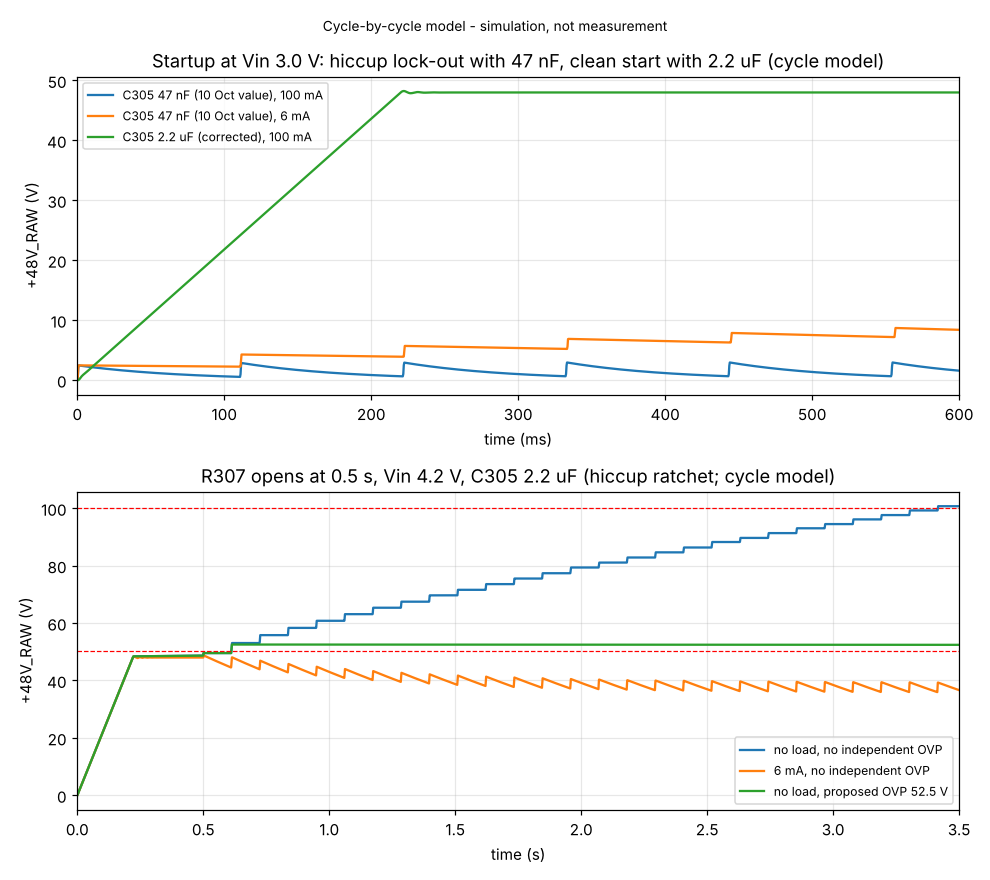
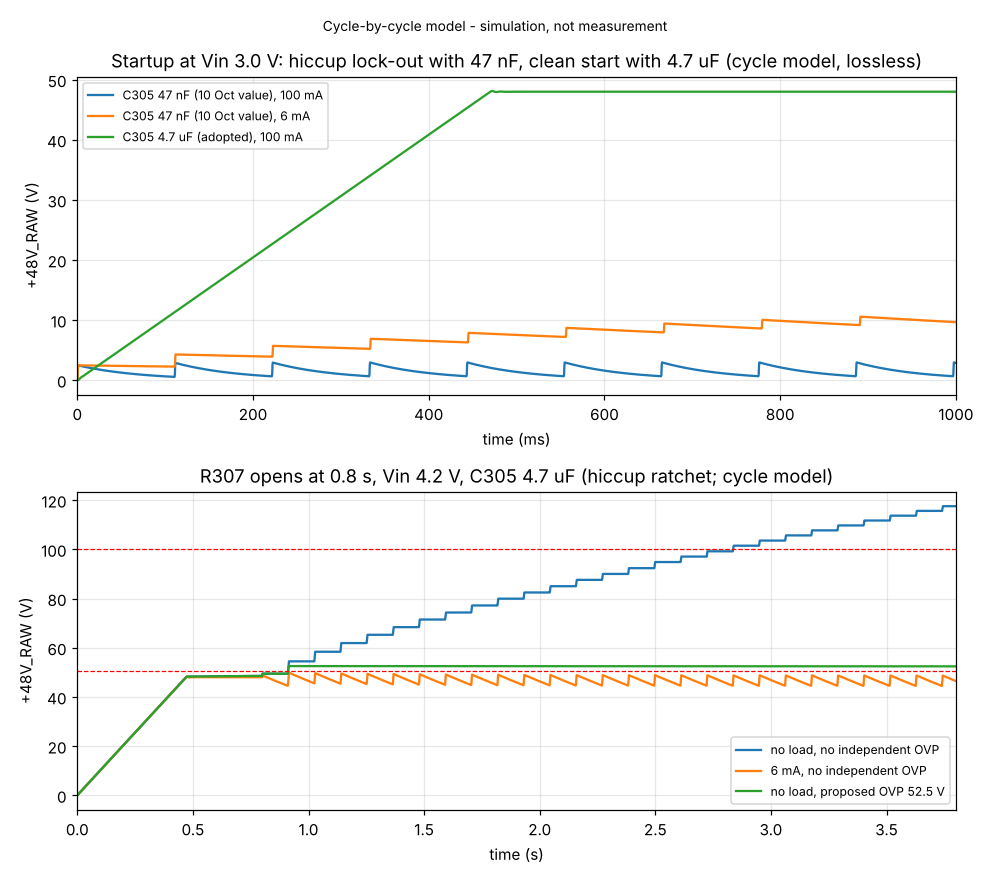
Archive CI run 7; U101 library/PCB fab outline aligned; CI export dry run; docs: CS filter decision 19, Q301 spec
- validation/erc, validation/drc, docs/bom*.csv from kicad-cli 10.0.4 CI run 7 (ea7aea9): 0 copper, 0 parity,
  19 unconnected; one lib_footprint_mismatch (U101 fab outline) fixed here by regenerating the library file
  from gen_library.py and aligning the placed footprint.
- scripts/archive_ci_log.py: reproducible extraction of the CI reports.
- CI: Gerber/drill export DRY RUN with inspection (scripts/inspect_fab_outputs.py), NOT FOR FABRICATION.
- Approval sheet: decision 16 closed (YBG drawing found), 18 done (C305 4.7 uF), new 19 (CS RC filter),
  Q301 replacement requirement table and missing-evidence statement; issue register U-12 closed, U-45 new.
- audit_calcs.py: C305 4.7 uF, CS filter constraints, VBAT_FUSED track (IPC-2221 equation).

diff --git a/scripts/audit_calcs.py b/scripts/audit_calcs.py
@@ -48,10 +48,24 @@ row("Current limit max", 0.107 / 0.022, "A", "107 mV / 22 mohm", "SNVSB75E VCLTH
 row("Soft-start time, 10 Oct C305 47 nF", 47e-9 * 1.0 / 10e-6 * 1e3, "ms", "C VREF / ISS (ISS typ 10 uA)", "SNVSB75E")
 c_out = 1.8e-6 * 2 + 47e-6 + 100e-6
 row("  charge current that 4.7 ms demands", c_out * 48 / 4.7e-3, "A", "C_out x 48 V / tSS", "-> current limit + hiccup")
-row("Soft-start time, C305 2.2 uF (1 Nov)", 2.2e-6 * 1.0 / 10e-6 * 1e3, "ms", "", "SNVSB75E")
-row("  range (ISS 11..9 uA, VREF 0.99..1.01)", 2.2e-6 * 0.99 / 11e-6 * 1e3, "ms (min)", "", "")
-row("  ...max", 2.2e-6 * 1.01 / 9e-6 * 1e3, "ms", "", "")
-row("  charge current at 2.2 uF", c_out * 48 / 0.22, "A", "", "sim_flyback_cycle.py: min 1.5 uF")
+row("Soft-start time, C305 2.2 uF (1 Nov, superseded)", 2.2e-6 * 1.0 / 10e-6 * 1e3, "ms", "", "SNVSB75E")
+row("  charge current at 2.2 uF", c_out * 48 / 0.22, "A", "", "")
+row("Soft-start time, C305 4.7 uF (adopted)", 4.7e-6 * 1.0 / 10e-6 * 1e3, "ms", "", "SNVSB75E")
+row("  range incl. C +-20 %, ISS 9..11 uA, VREF 0.99..1.01", 4.7e-6 * 0.8 * 0.99 / 11e-6 * 1e3, "ms (min)", "", "")
+row("  ...max", 4.7e-6 * 1.2 * 1.01 / 9e-6 * 1e3, "ms", "", "")
+row("  charge current at 4.7 uF", c_out * 48 / 0.47, "A", "", "")
+row("  worst-case equivalent C (C -20 %, ISS +10 %)", 4.7 * 0.8 / 1.1, "uF", "", "sim ssend_*_css3u4_vclth93_csf")
+row("  SS discharge 5 tau through 55 ohm switch", 5 * 55 * 4.7e-6 * 1e3, "ms", "", "SNVSB75E SS pull-down 55 ohm")
+row("CS RC filter 100 ohm / 470 pF: tau", 100 * 470e-12 * 1e9, "ns", "", "SNVSB75E 9.3.7")
+row("  3 RF CF vs (1-D)/fsw at 3.0 V", 3 * 100 * 470e-12 / ((1 - d3) / 298e3), "-", "must be < 1", "Eq. 13")
+row("  2 RF CF (current limit invalid below this on-time)", 2 * 100 * 470e-12 * 1e9, "ns", "", "vs tON(min) 140 ns")
+# VBAT_FUSED charge track (layout_fixes_4.py): IPC-2221 external-layer equation I = 0.048 dT^0.44 A^0.725 (A in mil^2)
+a_mil2 = (0.2 / 0.0254) * 1.378
+row("VBAT_FUSED 0.2 mm x 35 um cross-section", a_mil2, "mil^2", "", "1 oz assumed")
+row("  current for 10 C rise", 0.048 * 10 ** 0.44 * a_mil2 ** 0.725, "A", "IPC-2221 equation", "standard not in repo")
+row("  rise at 0.5 A", (0.5 / (0.048 * a_mil2 ** 0.725)) ** (1 / 0.44), "C", "", "")
+row("  rise at 1.0 A", (1.0 / (0.048 * a_mil2 ** 0.725)) ** (1 / 0.44), "C", "", "")
+row("  resistance (8.9 mm)", 1.72e-8 * 8.9e-3 / (35e-6 * 0.2e-3) * 1e3, "mohm", "", "")
 ratio_nom = 1 + 470 / 10
 ratio_lo = 1 + 470 * 0.99 / (10 * 1.01)
 ratio_hi = 1 + 470 * 1.01 / (10 * 0.99)

diff --git a/scripts/inspect_fab_outputs.py b/scripts/inspect_fab_outputs.py
@@ -1,0 +1,54 @@
+"""Inspect Gerber X2 / Excellon files produced by kicad-cli (used by the CI export dry run).
+Prints, per file: file function, coordinate format, number of apertures, number of draw/flash operations and
+the X/Y extents; for drill files the tool table and hits per tool. Usage: python3 inspect_fab_outputs.py <dir>
+"""
+import os
+import re
+import sys
+
+
+def gerber(path):
+    t = open(path, encoding="utf8", errors="replace").read()
+    fn = re.search(r"%TF\.FileFunction,([^*]*)\*%", t)
+    fs = re.search(r"%FSLAX(\d)(\d)Y(\d)(\d)\*%", t)
+    unit = "mm" if "%MOMM*%" in t else ("inch" if "%MOIN*%" in t else "?")
+    dec = int(fs.group(2)) if fs else 6
+    xs, ys = [], []
+    for m in re.finditer(r"X(-?\d+)Y(-?\d+)D0?([123])\*", t):
+        xs.append(int(m.group(1)) / 10 ** dec)
+        ys.append(int(m.group(2)) / 10 ** dec)
+    ap = len(re.findall(r"%ADD\d+", t))
+    ops = len(re.findall(r"D0?[123]\*", t))
+    ext = f"X {min(xs):.2f}..{max(xs):.2f}  Y {min(ys):.2f}..{max(ys):.2f} {unit}" if xs else "no coordinates"
+    return f"{fn.group(1) if fn else '?':38s} apertures {ap:4d}  ops {ops:6d}  {ext}"
+
+
+def drill(path):
+    t = open(path, encoding="utf8", errors="replace").read()
+    tools = dict(re.findall(r"^T(\d+)C([\d.]+)", t, re.M))
+    hits, cur = {}, None
+    for line in t.splitlines():
+        m = re.match(r"^T(\d+)$", line)
+        if m:
+            cur = m.group(1)
+        elif cur and re.match(r"^X-?[\d.]+Y-?[\d.]+", line):
+            hits[cur] = hits.get(cur, 0) + 1
+    unit = "mm" if "METRIC" in t else "inch"
+    return "tools: " + ", ".join(f"T{k} {v} {unit} x{hits.get(k, 0)}" for k, v in tools.items()) + \
+           f"  total hits {sum(hits.values())}"
+
+
+def main(d):
+    for f in sorted(os.listdir(d)):
+        p = os.path.join(d, f)
+        size = os.path.getsize(p)
+        if f.endswith((".drl",)):
+            print(f"{f:45s} {size:8d} B  {drill(p)}")
+        elif f.endswith((".gbr", ".gtl", ".gbl", ".g1", ".g2", ".gto", ".gbo", ".gts", ".gbs", ".gtp", ".gbp", ".gm1")):
+            print(f"{f:45s} {size:8d} B  {gerber(p)}")
+        else:
+            print(f"{f:45s} {size:8d} B")
+
+
+if __name__ == "__main__":
+    main(sys.argv[1])

diff --git a/scripts/archive_ci_log.py b/scripts/archive_ci_log.py
@@ -1,0 +1,41 @@
+"""Extract the kicad-cli reports and BOMs that .github/workflows/kicad-checks.yml prints between
+=====BEGIN/END ...===== markers from a saved job log, and write them into validation/ and docs/.
+Usage: python3 scripts/archive_ci_log.py <job-log-file>   (prints a summary)
+"""
+import json
+import os
+import re
+import sys
+from collections import Counter
+
+ROOT = os.path.dirname(os.path.dirname(os.path.abspath(__file__)))
+
+
+def main(path):
+    raw = open(path, encoding="utf8").read()
+    try:
+        d = json.loads(raw)
+        txt = d.get("logs_content") or d.get("content") or raw
+    except Exception:
+        txt = raw
+    lines = [re.sub(r"^\S+Z ", "", l) for l in txt.split("\n")]
+
+    def grab(name):
+        a = [i for i, l in enumerate(lines) if l == f"=====BEGIN {name}====="][-1]
+        b = [i for i, l in enumerate(lines) if l == f"=====END {name}====="][-1]
+        return "\n".join(lines[a + 1:b]).strip("\n") + "\n"
+    out = {"validation/erc/pump_v2-erc.rpt": (grab("ERC REPORT"), "\r\n"),
+           "validation/drc/pump_v2-drc.rpt": (grab("DRC REPORT"), "\r\n"),
+           "docs/bom.csv": (grab("BOM"), "\n"), "docs/bom_detailed.csv": (grab("BOM DETAILED"), "\n")}
+    for rel, (t, nl) in out.items():
+        open(os.path.join(ROOT, rel), "w", encoding="utf8", newline="").write(t.replace("\n", nl))
+    erc, drc = out["validation/erc/pump_v2-erc.rpt"][0], out["validation/drc/pump_v2-drc.rpt"][0]
+    print("ERC", dict(Counter(re.findall(r"^\[(\w+)\]", erc, re.M))))
+    print("DRC", dict(Counter(re.findall(r"^\[(\w+)\]", drc, re.M))))
+    print("\n".join(re.findall(r"^\*\* Found.*", drc, re.M)))
+    ver = [l for l in lines if re.fullmatch(r"\d+\.\d+\.\d+", l.strip())]
+    print("kicad-cli version lines:", ver[:2])
+
+
+if __name__ == "__main__":
+    main(sys.argv[1])

diff --git a/docs/handover/OWNER_APPROVAL_SHEET.md b/docs/handover/OWNER_APPROVAL_SHEET.md
@@ -37,11 +37,12 @@ The device is a water/saline bench prototype only. It must never be connected to
 | 12a | SMPS or LDO core supply | **SMPS** (ST's own choice on NUCLEO-WBA55CG) | `RCC.SupplySource=PWR_SMPS_SUPPLY` [REF] | Inductor value from AN6373 |
 | 12b | Antenna | Keep U.FL to an external 2.4 GHz antenna for the bench | No RF data in the repo | Matching network values from AN5948 |
 | 12c | LSE crystal | **Fit** Y502 (32.768 kHz), now DNP | ST reference uses LSE for the RTC and radio sleep timer [REF] | DNP → fitted; load caps from the datasheet |
-| 13 | **Battery subsystem** (U-18) | Molicel P28A protected 1S pack, **5 A slow-blow fuse**, **0.5 A charge current** with T<sub>REG</sub> 80 °C, XT30 confirmed, E-10 adopted | Charger loss 1.0 W at 0.5 A versus 2.0 W at 1 A [CALC]; cell data [WEB-2ND] | Fuse MPN, firmware ICHG setting |
+| 13 | **Battery subsystem** (U-18) | Molicel P28A protected 1S pack, **5 A slow-blow fuse**, **0.5 A charge current** (the VBAT_FUSED charge track routed 1 Nov is 0.2 mm: ≈ 4 °C rise at 0.5 A, ≈ 20 °C at 1 A by the IPC-2221 equation, so I<sub>CHG</sub> ≤ 0.5 A unless the track is widened) with T<sub>REG</sub> 80 °C, XT30 confirmed, E-10 adopted | Charger loss 1.0 W at 0.5 A versus 2.0 W at 1 A [CALC]; cell data [WEB-2ND] | Fuse MPN, firmware ICHG setting |
 | 14 | **Supervisor battery monitoring** (new, A2) | Connect a spare STM32C031 ADC pin to VBAT_SENSE (shared 1 M/1 M divider) so the supervisor can enforce the low-voltage stop independently | At present only the main MCU reads VBAT; the supervisor cannot | 1 net; pin confirmed in CubeMX |
 | 15 | **Fab house and stack-up** (U-16, U-20) | Choose before RF and fine-pitch routing | — | DRC rules and impedance |
-| 16 | **BQ25188 YBG land pattern** (U-12) | Provide TI's YBG package drawing (PDF in the repo lacks it) | — | Unblocks 3 unconnected items |
+| 16 | ~~BQ25188 YBG land pattern~~ **CLOSED 1 Nov** (U-12) | The drawing **is** in the repo PDF (SLUSFJ3 §13.1, vector graphics; read by rendering pp. 50–52). Footprint corrected to it: pads 0.20 → 0.23 mm, NSMD mask +0.05 mm, 0.25 mm square paste; ball map checked against Table 5-1 | [DS] | U101 escapes routed (CHG_INT_N, I2C_SDA, I2C_SCL re-routed, VBAT_FUSED) |
 | 17 | **Remaining PROPOSED requirements** (OPEN item 15) | Accept, change or strike each | — | Requirements frozen |
+| 19 | **CS-pin RC filter on U301** (new, U-45) | Add RF 100 Ω between FLY_CS (R305/Q301 source) and U301 pin 5, and CF 470 pF from pin 5 to GND, as TI recommends against the leading-edge spike (SNVSB75E §9.3.7: RF 10–200 Ω, CF 100 pF–2 nF; 3·RF·CF = 141 ns < (1−D)/f<sub>SW</sub> = 0.77 µs; 2·RF·CF = 94 ns < t<sub>ON(min)</sub> 140 ns) | Without it, the turn-on spike counts as current limit and trips the 64-cycle hiccup on **every** full-load start at V<sub>CLTH</sub> 93 mV, for C305 = 2.2, 3.3 and 4.7 µF. With it: 2.2 µF nominal passes; the tolerance corners 2.4 µF-eq and 3.4 µF-eq pass (5.7 % margin at 3.4 µF-eq); 3.0 V/100 mA steps still need FW-R1 [SIM] | 2 parts (0603), 1 new net, local re-route at U301 pin 5. Connectivity change → approval |
 
 ## E. Closure review (final completion pass, 1 Nov 2026)
 
@@ -63,9 +64,29 @@ Which decisions the available evidence now closes. **None of the safety-critical
 | 12 ST documents | No | ST reference firmware: SMPS, HSE, LSE [REF] | DS14127, AN5948, AN6373, MB1803 |
 | 13 Battery, fuse, charge current | No | Calculations | Cell/fuse datasheets; approval |
 | 14 Supervisor VBAT | Ready to decide | Gap identified | Approval; pin check in CubeMX |
-| 15–17 | No | — | Owner |
-| 18 C305 for start-up under full load (new) | See `PROGRESS_LOG.md` / report §27.2 | End-of-ramp simulations at 2.2/3.3/4.7 µF | Owner accepts FW-R2 (motor parked until PGOOD) or a larger C305 |
+| 15, 17 | No | — | Owner |
+| 16 BQ25188 land pattern | **Closed** | TI YBG0008-C01 drawing in the repo PDF | — |
+| 19 CS RC filter | Ready to decide | 9 worst-case soft-start/step runs | Approval (connectivity change) |
+| 18 C305 value | **Done (engineering, CALC value): 4.7 µF/10 V X5R ±20 %** | Worst-case end-of-ramp runs (§27.2) | Full-load start robustness also needs decision 19; with the motor parked during start-up (FW-R2), every value passes, including the 1.6 µF-eq corner |
 
+
+### Q301 replacement: electrical requirements (decision 9)
+
+Derived from the schematic and `validation/sim/q301_stress/results.md`. A part qualifies only on the strength of its **manufacturer datasheet**. Threshold voltage is not evidence of drive, and R<sub>DS(on)</sub> quoted only at 4.5 V or 10 V does not count.
+
+| Parameter | Requirement | Basis |
+| --- | --- | --- |
+| V<sub>DS</sub> (abs max) | **≥ 40 V**, with the drain loop verified ≤ 5 nH (33.8 V worst simulated = 84 %); **≥ 60 V** if the loop cannot be verified (39.5 V at 10 nH = 66 %) | Worst corner: V<sub>in</sub> 4.2 V, rail 55.9 V, V<sub>CLTH</sub> 107 mV, 3 % leakage, current limit |
+| R<sub>DS(on)</sub> | **Specified (max) at V<sub>GS</sub> = 2.5 V** in the electrical table; ≤ 15 mΩ at 25 °C. Gate drive is VBAT = 3.0–4.2 V (BIAS = VCC = VBAT, SNVSB75E §9.3.2), minus driver drop | Primary RMS 2.30 A [CALC] → ≤ 0.1 W conduction loss at 125 °C |
+| Q<sub>G</sub> | Q<sub>G</sub> at 3–4.5 V ≤ ≈ 15 nC (hard limit Q<sub>G</sub>·f<sub>SW</sub> < 35 mA → 117 nC [DS SNVSB75E Eq. 18]) | Switching loss and driver current |
+| I<sub>D</sub> | Pulsed ≥ 10 A; continuous ≥ 5 A at T<sub>A</sub> 70 °C | I<sub>pk</sub> up to 5.9 A at current limit [SIM] |
+| Avalanche | E<sub>AS</sub> rated (single pulse) | Fault margin |
+| Package | SON 3.3 × 3.3 class with an exposed drain pad; the land pattern is checked against the manufacturer's drawing before reuse of the Q301 footprint | Layout |
+| Availability | Two or more distributors listed with stock, or an owner-confirmed source | Not checkable from the design environment |
+
+**Alternative, if no part meets the 2.5 V requirement:** add an auxiliary T301 winding feeding BIAS through a diode, so that VCC regulates at 6.5–7 V [DS SNVSB75E Table, V<sub>VCC-REG</sub>]. A 40–60 V part specified at V<sub>GS</sub> = 4.5 V then qualifies. This is a transformer and schematic change (decision 7).
+
+**Evidence still missing:** no ≥ 40 V MOSFET datasheet is in the repository, and no manufacturer or distributor site was reachable (st.com, ti.com, nexperia, vishay, onsemi, infineon, diodes, aosmd, octopart, mouser and digikey all failed, 1 Nov 2026). **Q301 stays unresolved.**
 
 ## D. Approval record
 

diff --git a/docs/handover/UNRESOLVED_ISSUES.md b/docs/handover/UNRESOLVED_ISSUES.md
@@ -24,6 +24,7 @@ Item numbers in brackets (for example "item 4", "B.16") refer to `requirements/O
 | --- | --- | --- |
 | U-39 | **Soft-start lock-out (found 1 Nov by simulation).** C305 47 nF gave a 4.7 ms soft start that needs 1.54 A to charge 151 µF; the LM51551 would run at current limit, arm its 64-cycle hiccup and never reach 48 V | C305 = 2.2 µF (220 ms; worst-case minimum 1.5 µF), commit `a768755`. CALC + SIM (`sim_flyback_cycle.py`, `sim_flyback_closedloop.py`); bench test PW-SS still needed. Residual: starting into a full 100 mA load at 3.0 V still trips hiccup at the end of the soft start (switching model); covered by keeping the motor parked until PGOOD (FW-R2, hardware default) |
 | (U-21 part) | ENC_I_M and VBAT_SENSE unconnected | Routed 1 Nov (`layout_fixes_3.py`); kicad-cli CI run 4: 22 unconnected |
+| U-12 | BQ25188 YBG land pattern unverified | **Closed 1 Nov**: TI YBG0008-C01 outline, land pattern and stencil found in the repo PDF (vector graphics, SLUSFJ3 §13.1). Footprint corrected (0.23 mm NSMD pads, 0.25 mm square paste), ball map checked. U101 escapes then routed (`layout_fixes_4.py`): 22 → 19 unconnected |
 
 ## Critical
 
@@ -45,6 +46,7 @@ Item numbers in brackets (for example "item 4", "B.16") refer to `requirements/O
 | U-41 | **Critical (fabrication blocker)** | Q301 (CSD16340Q3, 25 V abs max) exceeds 25 V in current-limit operation. Investigation (1 Nov, `validation/sim/q301_stress/results.md`): physical, not numerical. Worst corner 31.4 V with the 10 Oct clamp; 22.1 V after the clamp re-tune (R306 220 Ω, C308 470 nF, implemented) on an ideal layout; 28–33 V with 2–5 nH drain-loop inductance. Normal operation 14.7–15.3 V | ≥ 40 V FET with R<sub>DS(on)</sub> specified at V<sub>GS</sub> ≤ 2.5 V, or a 40–60 V logic-level FET plus an auxiliary T301 winding feeding BIAS; gate-resistor footprint; tight D302/C308 loop; bench V<sub>DS</sub> measurement at current limit (approval sheet decision 9) |
 | U-42 | Major | Unload overshoot +1.3 V [SIM] on top of the 1 % setpoint corner 49.4 V gives 50.7 V, above the PMD401's 50.4 V | 0.1 % R307/R308 (decision 6) |
 | U-43 | Major | Supervisor has no battery-voltage input (A2 review) | Spare STM32C031 ADC on VBAT_SENSE (decision 14) |
+| U-45 | Major | The Q301 turn-on (leading-edge) current spike reaches the U301 CS pin unfiltered and is counted as current limit: every full-load start at V<sub>CLTH</sub> 93 mV trips hiccup for C305 = 2.2/3.3/4.7 µF [SIM] | CS RC filter 100 Ω/470 pF per SNVSB75E §9.3.7 (approval decision 19) |
 | U-44 | Critical (part of U-03) | S-06 with the proposed SPI gate holds only if the PMD401 SPI timeout is ≤ 18 ms at 15 mm/s (2 ms worst-case detection) [CALC `runaway_timing.py`]; the manual says "about 10 ms" | Ask PiezoMotor; measure (SG-06b) |
 
 ## Major
@@ -53,7 +55,7 @@ Item numbers in brackets (for example "item 4", "B.16") refer to `requirements/O
 | --- | --- | --- |
 | U-10 | Electrical pin properties not checked: 5 V tolerance of the pins facing the PMD401 and encoder, drive current, ADC leakage, reset-state behaviour | ST datasheets |
 | U-11 | WBA55 TIM2 width (32-bit?) unconfirmed (CF-21/FW-08) | RM0493 |
-| U-12 | Footprints still to be checked against drawings: BQ25188 YBG (pitch inferred 0.4 mm), CSD16340Q3 DQG (KiCad TI NexFET pattern; source-to-gate pad gap 0.14 mm needs the scoped 0.127 mm DRC rule) | TI drawings |
+| U-12 (rest) | Footprints still to be checked against drawings: BQ25188 **done 1 Nov**; CSD16340Q3 matches TI within 5 µm (1 Nov) but Q301 is to be replaced (U-41), so the new part's pattern must be checked; connectors, TVS, crystals, transformer pending their drawings | Drawings |
 | U-14 | Encoder supply voltage and cable pinout unverified (item 12) | LL06 datasheet, delivered cable |
 | U-15 | TVS parts (D701–D709) not chosen | Part selection after IF-02 |
 | U-16 | No fab chosen; rules are generic. Two scoped DRC exceptions exist (J703 vendor connector; Q301 pad pitch) | Fab rule file and stack-up |
@@ -61,7 +63,7 @@ Item numbers in brackets (for example "item 4", "B.16") refer to `requirements/O
 | U-18 | Battery connector, cell, fuse part number, master switch, charge current not decided (B.19, B.20) | Owner or successor |
 | U-19 | Thermal check: R306 ≈ 0.4 W, R313 ≈ 0.17 W, R305, Q301, D301 | After U-04 |
 | U-20 | RF trace not impedance-controlled | Stack-up, ST reference |
-| U-21 | **Routing incomplete / not reviewed.** 1 Nov (CI run 4, `a768755`), kicad-cli: **22 unconnected** (12 ST placeholders, 1 DNP switch, 3 at the BQ25188 WCSP, 6 boxed in by the U501 fan-out). Every remaining genuine item is blocked by U-05 or U-12, not by routing effort. The flyback loop is still autorouted around a placeholder transformer, so it is not final | Hand-route and review in pcbnew after U-04/U-05/U-12; the CI workflow re-checks every push |
+| U-21 | **Routing incomplete / not reviewed.** 1 Nov (final): **19 unconnected** (12 ST placeholders, 1 DNP switch, 6 boxed in by the U501 fan-out; the 3 BQ25188 items were routed after U-12 closed). Every remaining item is blocked by U-05 (ST documents / U501 re-fan-out) or U-06, not by routing effort. The flyback loop is still autorouted around a placeholder transformer, so it is not final | Hand-route and review in pcbnew after U-04/U-05/U-12; the CI workflow re-checks every push |
 | U-24 | Input current at full PMD401 speed is about 2.0–2.3 A at 3.0 V (simulation), at or above the E-05 2.1 A budget | Measure PMD401 current at dosing speed (MT-07); re-check the battery-path ratings |
 | U-22 | Freerouting ran with default telemetry during the first session (disabled afterwards) | Note only |
 

diff --git a/docs/handover/FABRICATION_BLOCKERS.md b/docs/handover/FABRICATION_BLOCKERS.md
@@ -13,7 +13,8 @@ Status at commit `a768755` plus the documentation commit that follows it (1 Nov 
 | HV clearance rule not signed off | 5 | DRC rules |
 | Feedback divider 1 % versus 0.1 %; R307 working voltage (U-38) | 6 | BOM |
 | Transformer T301 not selected (placeholder footprint) | 7 | Footprint, clamp/snubber, compensation, flyback layout |
-| Current-limit headroom: hiccup on 100 mA load **steps** below about 4 V; a 20 ms speed ramp avoids it in simulation (FW-R1) | 8 | Firmware requirement; optionally R305 / T301 I<sub>sat</sub> |
+| Current-limit headroom: hiccup on 100 mA load **steps** at 3.0 V (also at 3.4 V without the CS filter); a 20 ms speed ramp avoids it at V<sub>CLTH</sub> 93 mV in simulation (FW-R1) | 8 | Firmware requirement; optionally R305 / T301 I<sub>sat</sub> |
+| No CS-pin RC filter: the leading-edge spike trips hiccup on full-load start-up at minimum V<sub>CLTH</sub> | 19 | Schematic (2 parts), PCB |
 | **Q301 (25 V) exceeds its absolute maximum at fault current limit**: 22.1 V on an ideal layout after the 1 Nov clamp re-tune, but 28–33 V with 2–5 nH drain-loop inductance (`validation/sim/q301_stress/results.md`) | 9 | ≥ 40 V FET (gate-drive constraint), gate-resistor footprint, layout |
 | R313 rating | 11 | Footprint |
 | Battery cell, fuse, connector, charge current | 13 | BOM, firmware |
@@ -26,16 +27,16 @@ Status at commit `a768755` plus the documentation commit that follows it (1 Nov 
 | --- | --- |
 | ST DS14127, AN5948, AN6373, MB1803 schematic (decision 12) | STM32WBA55 SMPS inductor, VDD11/VDDRF/VDDRFPA/VDDANA decoupling, HSE/LSE load capacitors, RF match, exposed-pad layout. **12 unconnected items, 6 ERC errors**, plus 6 nets boxed in by the U501 fan-out that must be redone (I2C_SDA→U501.6, PMD_SCLK_M, PMD_MOSI_M, PMD_READY_M, MAIN_SWCLK, FLY_PGOOD) |
 | ST STM32C031 datasheet | Supervisor decoupling values, boot pins (A-7) |
-| TI BQ25188 YBG package drawing (decision 16) | U101 land pattern. **3 unconnected items** (VBAT_FUSED, CHG_INT_N, I2C_SDA→U101.C1) |
+| ~~TI BQ25188 YBG package drawing~~ | **Closed 1 Nov:** found in the repo PDF; footprint corrected; 3 items routed |
 | JST SH, MAX3485, LL06, Molicel, fuse, TVS (D701–D709), crystal datasheets | Footprint and rating verification (U-12, U-15, U-17, U-34) |
 
 ## 3. Engineering work that remains after the decisions
 
 1. Implement approved decisions in `scripts/design.py`, the schematic and the PCB.
-2. Re-lay the STM32WBA55 area per ST, then route the remaining **22** unconnected items. Each is listed in `validation/drc/pump_v2-drc.rpt`.
+2. Re-lay the STM32WBA55 area per ST, then route the remaining **19** unconnected items. Each is listed in `validation/drc/pump_v2-drc.rpt`.
 3. Flyback loop compaction around the real T301 (FL-1 to FL-4).
 4. Loop simulation with the TI LM5155/LM51551 model and the real T301, followed by a bench Bode measurement. The present compensation (R303/C306/C307) is **preliminary**.
-5. Footprint verification against drawings for every part (PB-03). Done so far only for CSD16340Q3.
+5. Footprint verification against drawings for every part (PB-03). Done for CSD16340Q3 (to be replaced) and BQ25188 (corrected).
 6. IPC-2152 width check on the battery path and the flyback primary.
 7. Silkscreen clean-up: 69 overlap, 52 over copper and 1 edge warning (kicad-cli).
 8. Refill zones in pcbnew (press **B**) and save. The stored fills were re-clipped by script.
@@ -46,9 +47,10 @@ Status at commit `a768755` plus the documentation commit that follows it (1 Nov 
 
 | Item | Evidence |
 | --- | --- |
-| Copper DRC | **0** errors (kicad-cli 10.0.4, CI run 4 on `a768755`) |
+| Copper DRC | **0** errors (kicad-cli 10.0.4; latest run in `validation/KICAD_CI_PROVENANCE.md`) |
 | Schematic–PCB parity | **0** issues (same run) |
 | ERC | 6 intentional `power_pin_not_driven` errors (U-05) + 1 cosmetic warning; no other violations |
 | BOM | Matches the schematic: 133 references in the kicad-cli export; `gen_bom_full.py` reports an identical reference set |
 | Pin map | 41/41 functions against the STM32CubeMX database (10 Oct) |
-| Soft-start lock-out | Fixed: C305 = 2.2 µF (calculated and simulated, not measured) |
+| Soft-start lock-out | Fixed: C305 = 4.7 µF (worst-case simulated, not measured); full-load start also needs decision 19 |
+| BQ25188 land pattern | Verified against TI YBG0008-C01 and corrected |
